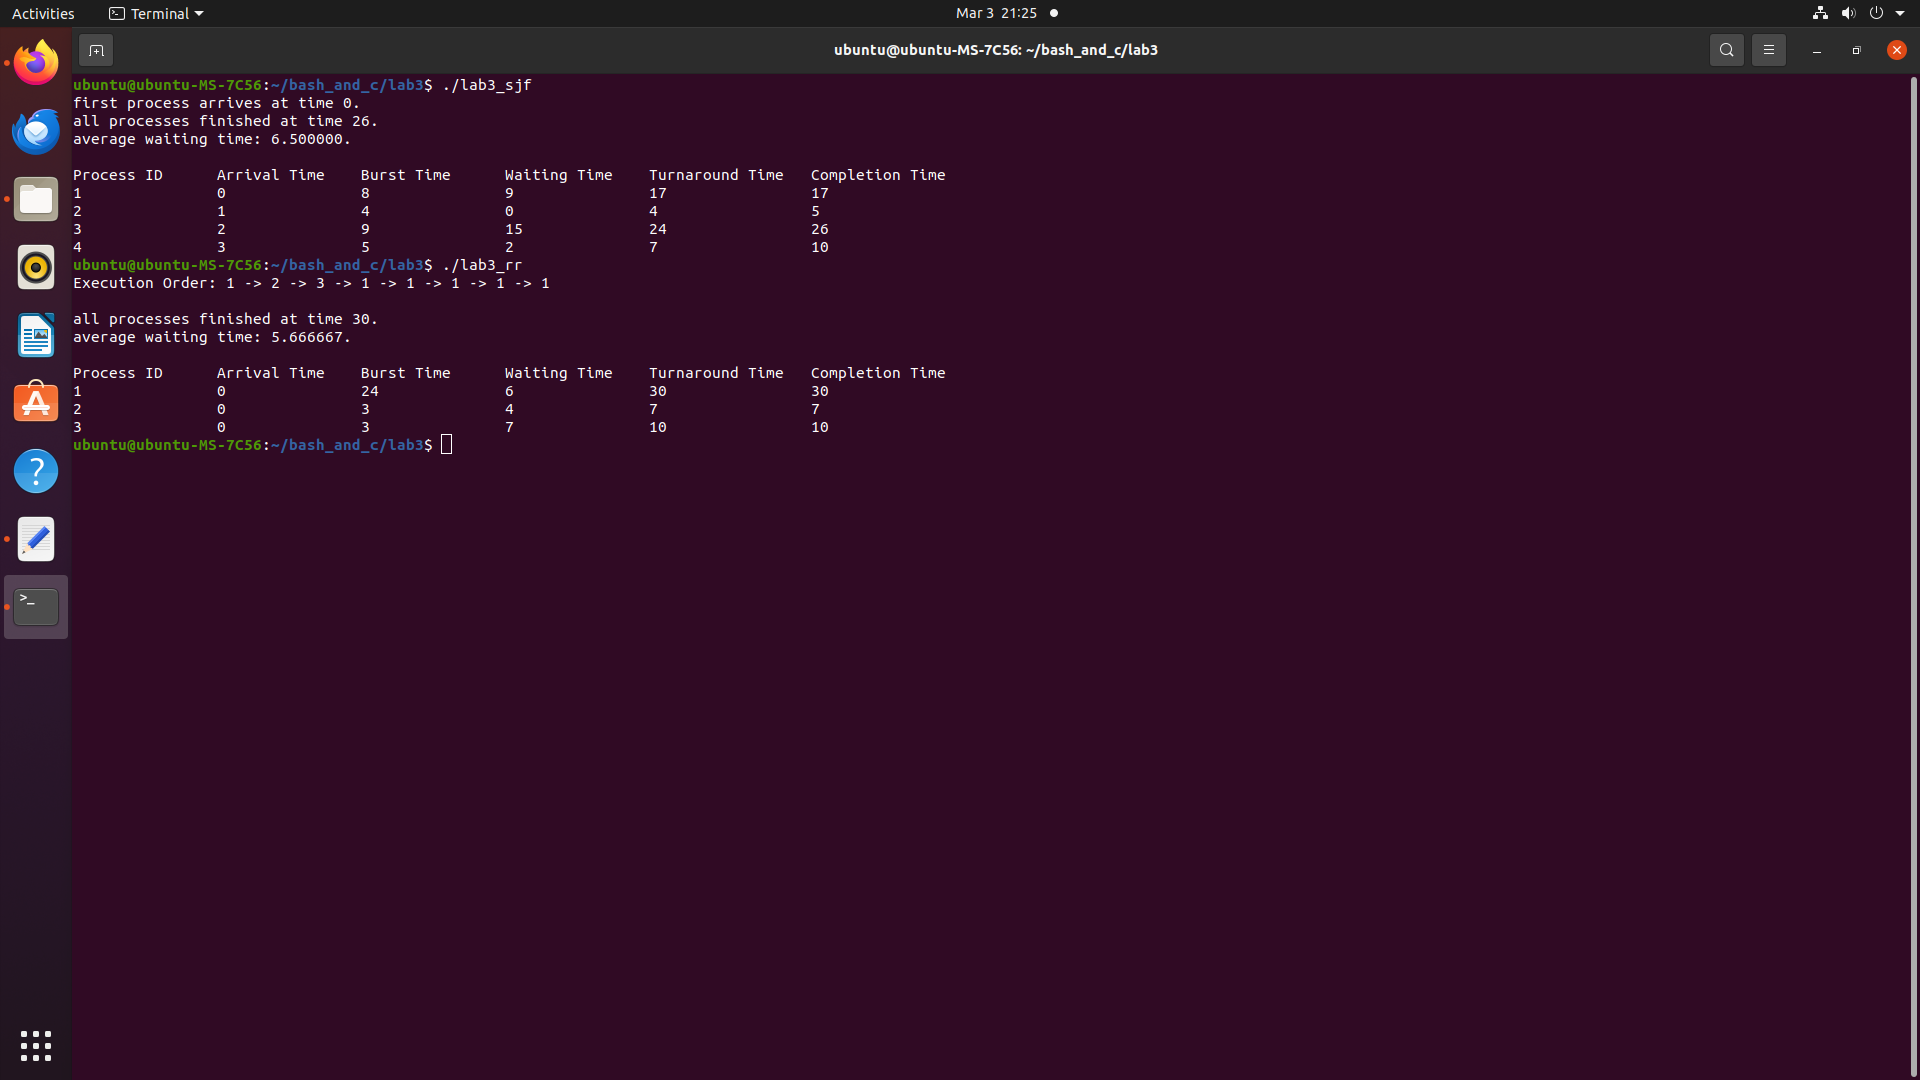
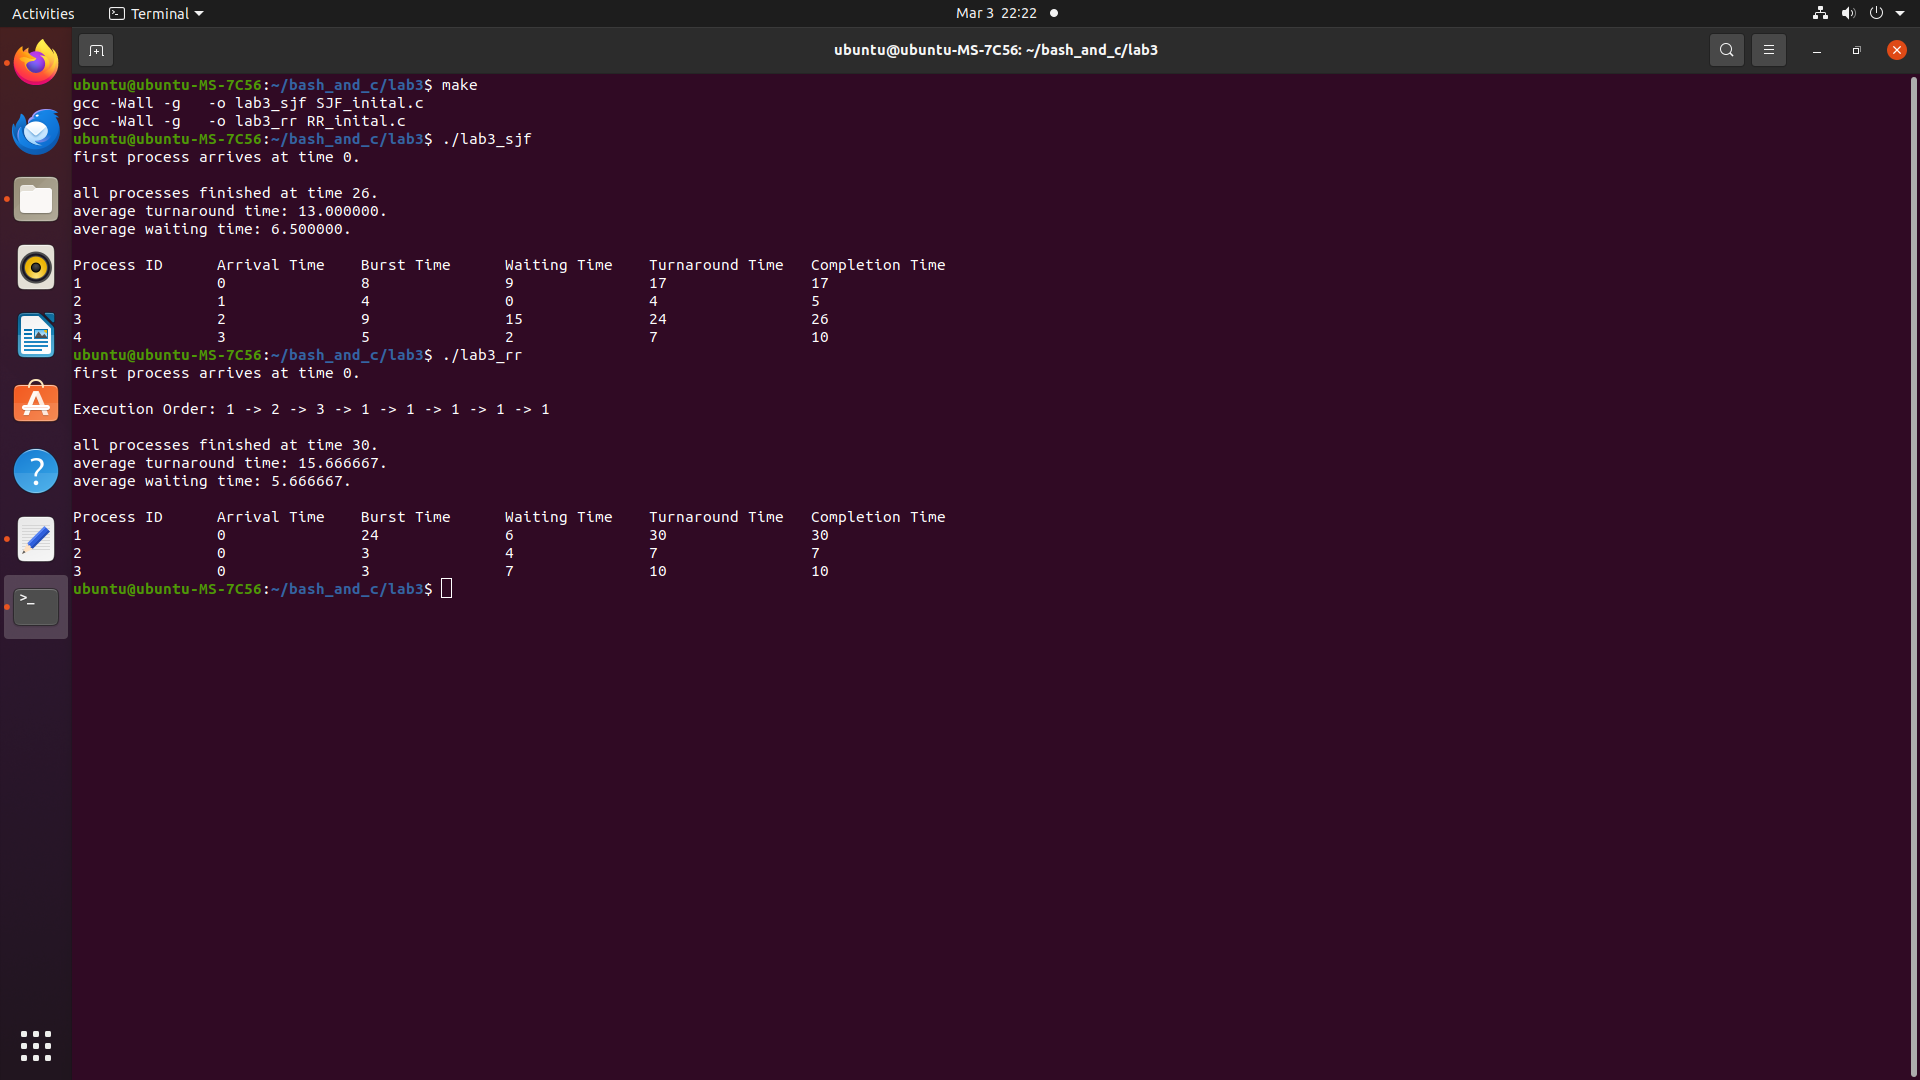
Add files via upload

diff --git a/lab3/RR_inital.c b/lab3/RR_inital.c
@@ -36,6 +36,8 @@ void calculateWaitingTimeAndExecutionOrder(Process proc[], int n, int quantum) {
             current_time = proc[i].arrival_time;
         }
     }
+    
+    printf("first process arrives at time %d.\n\n", current_time);
 
     // Keep traversing processes in round-robin manner until all of them are not done
     while (1) {
@@ -96,15 +98,21 @@ void calculateWaitingTimeAndExecutionOrder(Process proc[], int n, int quantum) {
 // Function to calculate turnaround times for all processes
 void calculateTurnaroundTime(Process proc[], int n) {
     
-    double combined_waiting_time = 0;
+    double combined_turnaround_time = 0.0;
+    double combined_waiting_time = 0.0;
     
     for (int i = 0; i < n; i++) {
         proc[i].turnaround_time = proc[i].completion_time - proc[i].arrival_time;
         proc[i].waiting_time = proc[i].turnaround_time - proc[i].burst_time;
+        combined_turnaround_time += proc[i].turnaround_time;
         combined_waiting_time += proc[i].waiting_time;
     }
     
-    printf("average waiting time: %f.\n\n", combined_waiting_time / n);
+    printf(
+        "average turnaround time: %f.\naverage waiting time: %f.\n\n",
+        combined_turnaround_time / n,
+        combined_waiting_time / n
+    );
 }
 
 void roundRobin(Process proc[], int n, int quantum) {

diff --git a/lab3/SJF_inital.c b/lab3/SJF_inital.c
@@ -50,7 +50,7 @@ void srtf(Process proc[]) {
         }
     }
     
-    printf("first process arrives at time %d.\n", current_time);
+    printf("first process arrives at time %d.\n\n", current_time);
     
     // Build the loop to execute processes in the queue list
     while (completed != n) {
@@ -95,17 +95,20 @@ void srtf(Process proc[]) {
     }
     
     // printing some stats
+    double combined_turnaround_time = 0.0;
     double combined_waiting_time = 0.0;
     
     for (int i = 0; i < n; i++) {
         proc[i].turnaround_time = proc[i].completion_time - proc[i].arrival_time;
         proc[i].waiting_time = proc[i].turnaround_time - proc[i].burst_time;
+        combined_turnaround_time += proc[i].turnaround_time;
         combined_waiting_time += proc[i].waiting_time;
     }
     
     printf(
-        "all processes finished at time %d.\naverage waiting time: %f.\n\n",
+        "all processes finished at time %d.\naverage turnaround time: %f.\naverage waiting time: %f.\n\n",
         current_time,
+        combined_turnaround_time / n,
         combined_waiting_time / n
     );
 }
